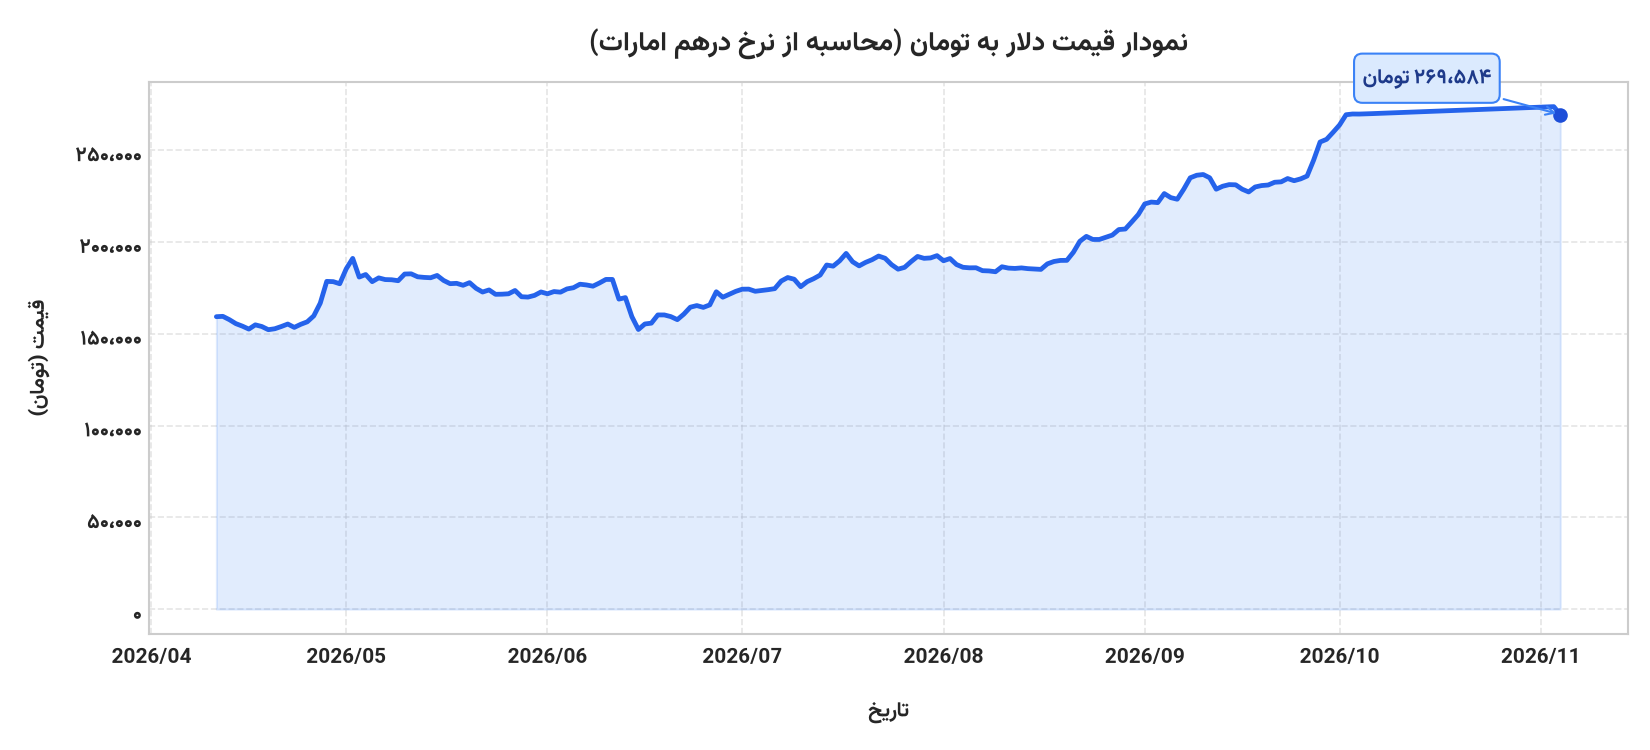
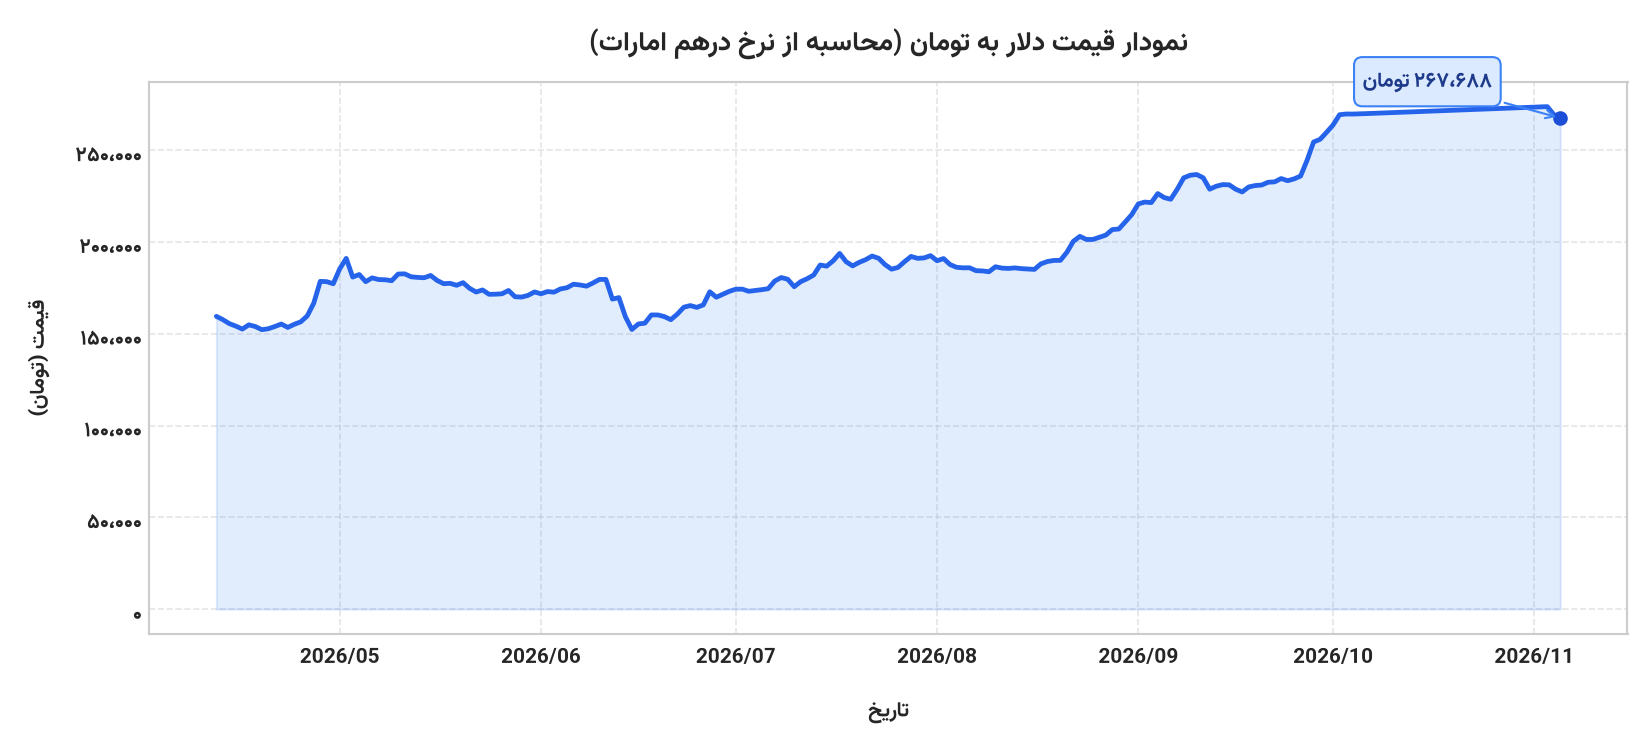
chore(auto): update rates, API history and chart [skip ci]

diff --git a/README.md b/README.md
@@ -9,7 +9,7 @@
 <br/>
 
 > [!NOTE]
-> 📅 **تاریخ:** ۱۳ آبان ۱۴۰۵ (2026-11-04) &nbsp;|&nbsp; ⏱ **ساعت آخرین بروزرسانی:** **۱۸:۴۹** (به وقت تهران)
+> 📅 **تاریخ:** ۱۴ آبان ۱۴۰۵ (2026-11-05) &nbsp;|&nbsp; ⏱ **ساعت آخرین بروزرسانی:** **۰۰:۵۷** (به وقت تهران)
 
 <br/>
 
@@ -36,12 +36,12 @@
 <tr>
 <td align="center">🇺🇸</td>
 <td><b>دلار آمریکا</b></td>
-<td align="left"><b>۲۶۹،۵۸۴ تومان</b></td>
+<td align="left"><b>۲۶۷،۶۸۸ تومان</b></td>
 </tr>
 <tr>
 <td align="center">🇪🇺</td>
 <td><b>یورو اروپا</b></td>
-<td align="left"><b>۳۰۳،۲۰۰ تومان</b></td>
+<td align="left"><b>۳۰۰،۶۰۰ تومان</b></td>
 </tr>
 
 <!-- بخش طلا -->
@@ -51,17 +51,17 @@
 <tr>
 <td align="center">✨</td>
 <td><b>طلای ۱۸ عیار (هر گرم)</b></td>
-<td align="left"><b>۲۶،۰۳۰،۷۵۰ تومان</b></td>
+<td align="left"><b>۲۵،۹۷۵،۳۵۰ تومان</b></td>
 </tr>
 <tr>
 <td align="center">⚖</td>
 <td><b>مثقال طلا (آبشده)</b></td>
-<td align="left"><b>۱۱۲،۷۶۰،۰۰۰ تومان</b></td>
+<td align="left"><b>۱۱۲،۵۲۰،۰۰۰ تومان</b></td>
 </tr>
 <tr>
 <td align="center">🌐</td>
 <td><b>انس جهانی طلا</b></td>
-<td align="left"><b>۴۰۳۷.۷ دلار</b></td>
+<td align="left"><b>۴۰۶۵.۱۵ دلار</b></td>
 </tr>
 
 <!-- بخش سکه -->
@@ -101,7 +101,7 @@
 <tr>
 <td align="center">⛽</td>
 <td><b>نفت خام برنت / اوپک</b></td>
-<td align="left"><b>۹۳.۷۰ دلار</b></td>
+<td align="left"><b>۸۸.۴۵ دلار</b></td>
 </tr>
 
 </tbody>
@@ -136,14 +136,14 @@
 
 ```json
 {
-  "updated_at": "2026-11-04 18:49:56",
-  "date_shamsi": "1405/08/13",
-  "usd": 269584,
-  "eur": 303200,
-  "gold_18k": 26030750,
-  "gold_mesghal": 112760000,
+  "updated_at": "2026-11-05 00:57:42",
+  "date_shamsi": "1405/08/14",
+  "usd": 267688,
+  "eur": 300600,
+  "gold_18k": 25975350,
+  "gold_mesghal": 112520000,
   "coin_emami": 264500000,
-  "oil": "93.70"
+  "oil": "88.45"
 }
 ```
 
